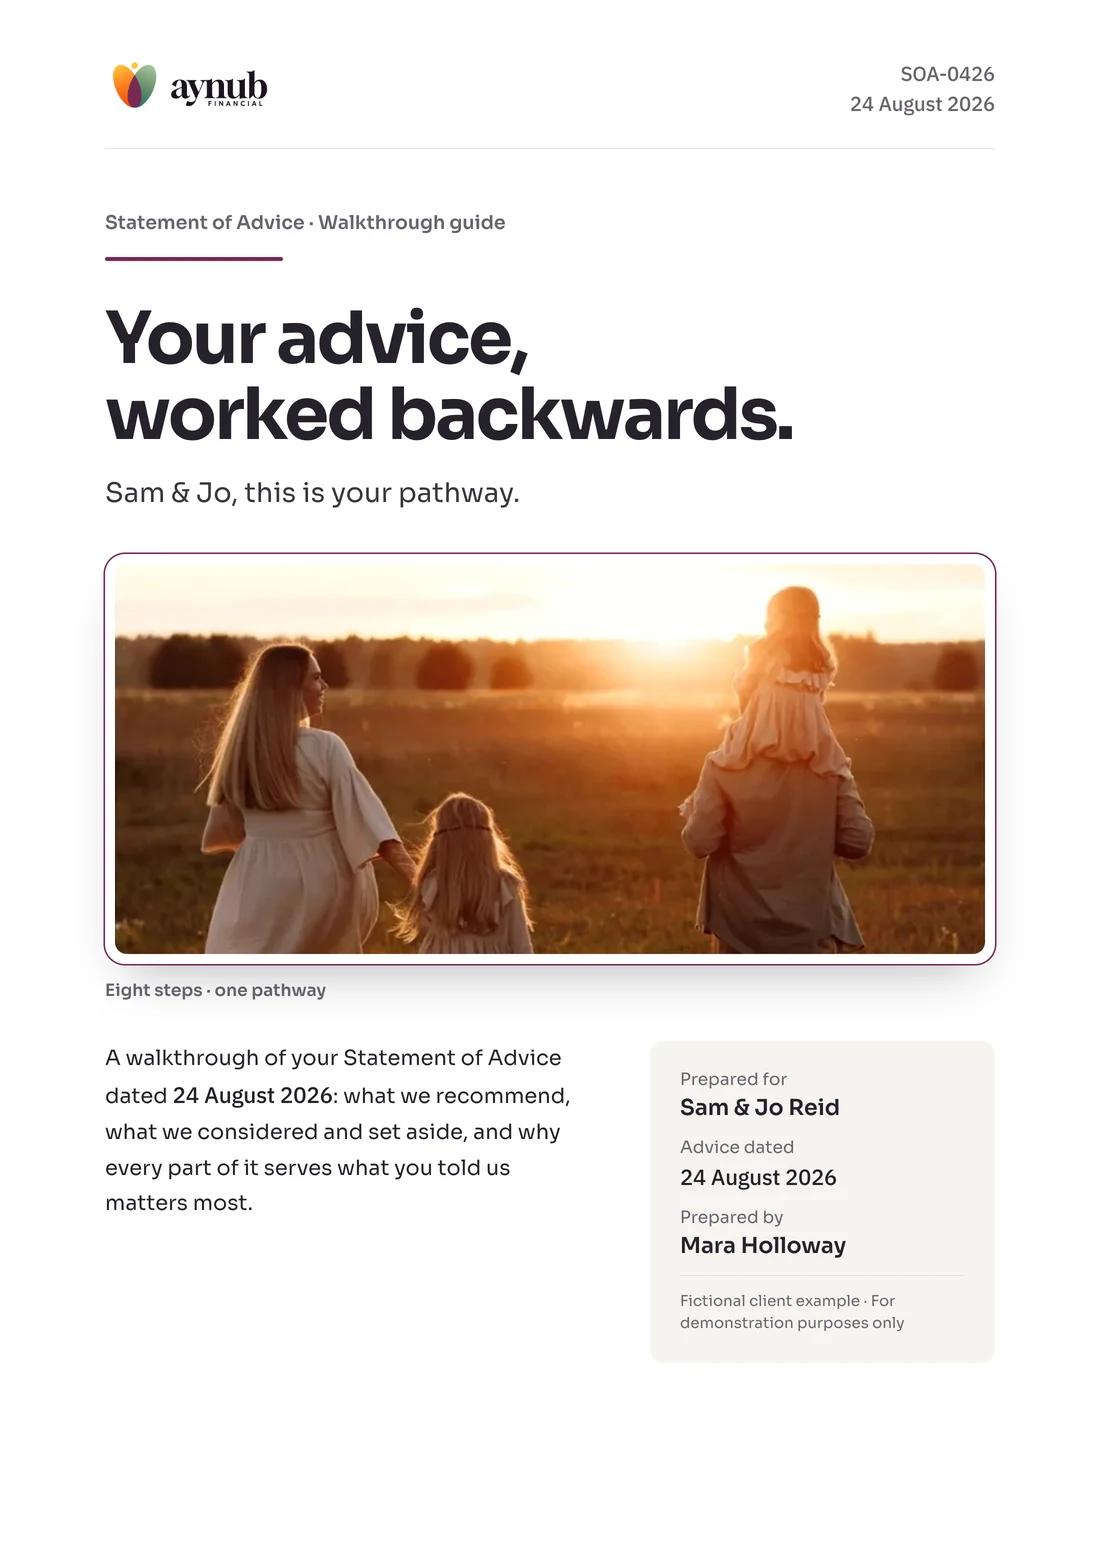
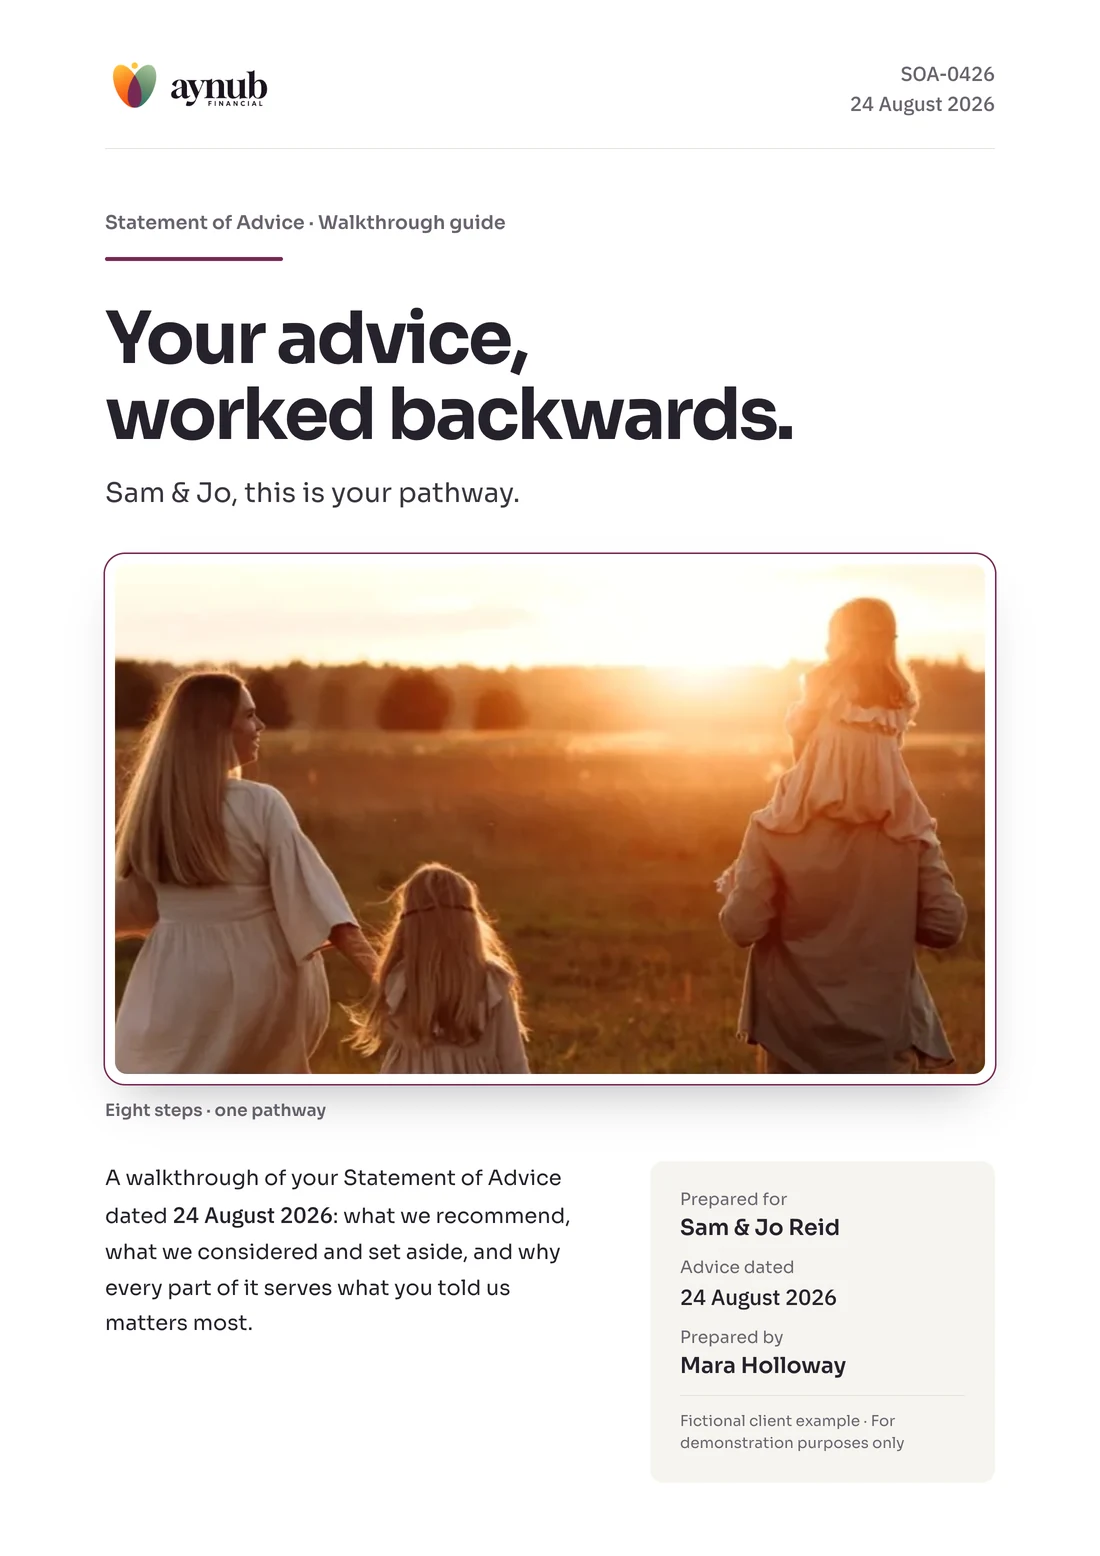
SOA generator: Aynub look for the drafted SOA, cover and page 9 tweaks
- The SOA drafted in the live screen (Advice Engine and SOA generator
  pages) now uses the Aynub template: logo, Sora, IBM Plex figures, plum
- SOA page 1: longer photo, bottom block sits lower on the page
- SOA page 9: section 03 headline breaks after "Retiring at 52:"

Changed region(s): [[0.0927, 0.3702, 0.8964, 0.9563]]

diff --git a/css/dana-ae.css b/css/dana-ae.css
@@ -1,3 +1,4 @@
+@import url("https://fonts.googleapis.com/css2?family=Sora:wght@400;500;600;700&family=IBM+Plex+Sans:wght@500;600&display=swap");
 /* Advice Engine overview, Dana 19 Nov 2026. Goes with js/dana-ae.js; reuses the app frame, rows and pills from css/dana-rp.css. */
 .sx .ae-hidden{display:none!important}
 .sx .ae-scene{position:relative;text-align:left}
@@ -52,3 +53,22 @@
 .sx .ae-sec.now .ae-tick{background:none;-webkit-mask:none;mask:none;box-shadow:none;border:2.5px solid #CFE6E3;border-top-color:#11B8B1;animation:ae-spin .9s linear infinite}
 .sx .ae-status b{color:#0A7D79}
 .sx .ae-ph em{color:#7EDAD6}
+
+/* The SOA being drafted in the live screen, in the Aynub template (Dana, 19 Nov 2026). Matches assets/aynub/src/aynub.css. Used on advice-engine.html and soa-generator.html. */
+.sx .ae-aynub .ae-page{font-family:"Sora",sans-serif;padding:0 0 4px;border-radius:6px;box-shadow:0 0 0 1px rgba(38,34,44,.08),0 18px 36px -18px rgba(38,34,44,.28)}
+.sx .ae-aynub .ae-stack > i{border-radius:6px}
+.sx .ae-aynub .ae-ph{margin:0 22px;padding:16px 0 12px;background:none;border-bottom:1px solid #E6E2DB;color:#6A6470}
+.sx .ae-aynub .ae-ph img{height:22px;width:auto;display:block;box-shadow:none!important;border-radius:0!important;border:0!important}
+.sx .ae-aynub .ae-ph em{font:500 11.5px/1 "Sora",sans-serif;letter-spacing:0;text-transform:none;color:#6A6470}
+.sx .ae-aynub .ae-pt{padding:20px 22px 16px;border:0}
+.sx .ae-aynub .ae-pt small{display:block;font:600 11.5px/1 "Sora",sans-serif;letter-spacing:0;text-transform:none;color:#6A6470}
+.sx .ae-aynub .ae-pt small::after{content:"";display:block;width:48px;height:3px;margin-top:10px;border-radius:2px;background:#772A53}
+.sx .ae-aynub .ae-pt b{margin:12px 0 10px;font-family:"Sora",sans-serif;font-size:21px;line-height:1.15;font-weight:700;letter-spacing:-.03em;color:#26222C}
+.sx .ae-aynub .ae-pt span{font-size:12px;line-height:1.55;color:#3B3640}
+.sx .ae-aynub .ae-toc{padding:4px 22px 6px;gap:0}
+.sx .ae-aynub .ae-toc span{gap:10px;padding:7px 0;border-top:1px solid #EFECE6;font-size:12.5px;color:#26222C}
+.sx .ae-aynub .ae-toc em{width:auto;height:auto;background:none;border-radius:0;font:600 12.5px/1 "IBM Plex Sans",sans-serif;font-variant-numeric:tabular-nums;color:#772A53;min-width:12px}
+.sx .ae-aynub .ae-toc i{border-bottom-color:#E6E2DB}
+.sx .ae-aynub .ae-toc strong{font-family:"IBM Plex Sans",sans-serif;font-weight:600;color:#26222C}
+.sx .ae-aynub .ae-pf{display:flex;justify-content:space-between;margin:6px 22px 0;padding:10px 0 12px;border-top:1px solid #E6E2DB;font-size:10.5px;color:#6A6470}
+.sx .ae-aynub .ae-pf b{font:600 10.5px/1 "IBM Plex Sans",sans-serif;color:#26222C}

diff --git a/soa-generator.html b/soa-generator.html
@@ -24,8 +24,8 @@
 <link rel="stylesheet" href="css/dana-journey.css?v=7">
 <link rel="stylesheet" href="css/dana-feature.css?v=22">
 <link rel="stylesheet" href="css/dana-rp.css?v=4">
-<link rel="stylesheet" href="css/dana-ae.css?v=3">
-<link rel="stylesheet" href="css/dana-soa.css?v=1">
+<link rel="stylesheet" href="css/dana-ae.css?v=4">
+<link rel="stylesheet" href="css/dana-soa.css?v=4">
 <script>document.documentElement.classList.add('js')</script>
 <script type="application/ld+json">{"@context":"https://schema.org","@graph":[{"@type":"WebPage","@id":"https://bunya.ai/soa-generator/#webpage","url":"https://bunya.ai/soa-generator/","name":"SOA generator: The SOA, drafted in your template.","description":"The draft SOA in your template, with every recommendation linked to its reasons."},{"@type":"BreadcrumbList","itemListElement":[{"@type":"ListItem","position":1,"name":"Home","item":"https://bunya.ai/"},{"@type":"ListItem","position":2,"name":"Advice Engine","item":"https://bunya.ai/advice-engine/"},{"@type":"ListItem","position":3,"name":"SOA generator","item":"https://bunya.ai/soa-generator/"}]},{"@type":"FAQPage","mainEntity":[{"@type":"Question","name":"Does Bunya write the SOA?","acceptedAnswer":{"@type":"Answer","text":"Yes. Bunya drafts the Statement of Advice in your template, and your adviser checks and approves it before it goes to the client. If your firm is self-licensed, you can start straight away. If you’re with a licensee, we’ll ask them to approve it first."}},{"@type":"Question","name":"Do our paraplanners still have a role?","acceptedAnswer":{"@type":"Answer","text":"Yes. The draft can go to your paraplanner to refine, or straight to the adviser to check. Your firm decides the handover."}},{"@type":"Question","name":"What does it need?","acceptedAnswer":{"@type":"Answer","text":"The fact find and Strategy and modelling, so both are added with it."}},{"@type":"Question","name":"Is it live?","acceptedAnswer":{"@type":"Answer","text":"It’s in pilot with early firms."}}]}]}</script>
 </head>
@@ -89,8 +89,8 @@
 <script src="js/nav3.js?v=20261117b"></script>
 <script src="js/footer.js?v=20261112a"></script>
 <script src="js/dana-feature.js?v=22"></script>
-<script src="js/dana-ae.js?v=3"></script>
-<script src="js/dana-soa.js?v=2"></script>
+<script src="js/dana-ae.js?v=4"></script>
+<script src="js/dana-soa.js?v=5"></script>
 <script src="js/dana-ux.js?v=8"></script>
 <script src="js/dana-journey.js?v=4"></script>
 <script src="js/reader.js?v=20261111a"></script>

diff --git a/advice-engine.html b/advice-engine.html
@@ -23,7 +23,7 @@
 <link rel="stylesheet" href="css/dana-journey.css?v=7">
 <link rel="stylesheet" href="css/dana-feature.css?v=22">
 <link rel="stylesheet" href="css/dana-rp.css?v=4">
-<link rel="stylesheet" href="css/dana-ae.css?v=3">
+<link rel="stylesheet" href="css/dana-ae.css?v=4">
 <script>document.documentElement.classList.add('js')</script>
 <script type="application/ld+json">{"@context":"https://schema.org","@graph":[{"@type":"WebPage","@id":"https://bunya.ai/advice-engine/#webpage","url":"https://bunya.ai/advice-engine/","name":"Advice Engine: Every SOA, drafted.","description":"Fact find, insurance needs, modelling and every SOA drafted in your template, on top of everything in Command Centre."},{"@type":"BreadcrumbList","itemListElement":[{"@type":"ListItem","position":1,"name":"Home","item":"https://bunya.ai/"},{"@type":"ListItem","position":2,"name":"Command Centre","item":"https://bunya.ai/command-centre/"},{"@type":"ListItem","position":3,"name":"Advice Engine","item":"https://bunya.ai/advice-engine/"}]},{"@type":"FAQPage","mainEntity":[{"@type":"Question","name":"Does Bunya write the SOA?","acceptedAnswer":{"@type":"Answer","text":"Yes. Bunya drafts the Statement of Advice in your template, and your adviser checks and approves it before it goes to the client. If your firm is self-licensed, you can start straight away. If you’re with a licensee, we’ll ask them to approve it first."}},{"@type":"Question","name":"Do our paraplanners still have a role?","acceptedAnswer":{"@type":"Answer","text":"Yes. The draft can go to your paraplanner to refine, or straight to the adviser to check. Your firm decides the handover."}},{"@type":"Question","name":"What if we only write a few SOAs?","acceptedAnswer":{"@type":"Answer","text":"Choose Command Centre instead, and pay $153 for each SOA we draft for you. You can compare both models when you build yours."}},{"@type":"Question","name":"Is all of it live?","acceptedAnswer":{"@type":"Answer","text":"The fact find, portfolio, insurance needs, modelling and comparisons are. The SOA generator and File Audit are in pilot with early firms."}}]}]}</script>
 </head>
@@ -88,7 +88,7 @@
 <script src="js/nav3.js?v=20261117b"></script>
 <script src="js/footer.js?v=20261112a"></script>
 <script src="js/dana-feature.js?v=22"></script>
-<script src="js/dana-ae.js?v=3"></script>
+<script src="js/dana-ae.js?v=4"></script>
 <script src="js/dana-ux.js?v=8"></script>
 <script src="js/dana-journey.js?v=4"></script>
 </body>

diff --git a/assets/aynub/src/soa.html b/assets/aynub/src/soa.html
@@ -15,7 +15,7 @@
 .c1 .kick::after{content:"";display:block;width:178px;height:4px;margin-top:22px;border-radius:2px;background:var(--plum)}
 .c1 h1{margin-top:40px;font-size:72px;line-height:1.06;font-weight:700;letter-spacing:-.035em;color:var(--ink)}
 .c1 .to{margin-top:22px;font-size:27px;color:var(--text)}
-.c1 .photo{margin-top:44px;height:410px}
+.c1 .photo{margin-top:44px;height:530px}
 .c1 .cap{margin-top:16px;font-size:17px;font-weight:600;color:var(--grey)}
 .c1 .low{display:grid;grid-template-columns:1fr 345px;gap:56px;margin-top:40px}
 .c1 .low p{font-size:21px;line-height:1.7;color:var(--ink)}
@@ -258,7 +258,7 @@
     <div class="box s"><div class="bv">$100k <small>a year</small></div><p><b>General living costs</b> from day one, even though you only disclosed <span class="n">$33,600</span>, so the plan is stress-tested rather than flattered.</p></div>
   </div>
   <div class="note2"><p>This is the baseline in every scenario, not an optimistic case with the family costs bolted on afterwards. When you compare the numbers, you are comparing like with like: each one already absorbs the reduced income and the childcare.</p></div>
-  <div class="sh" style="padding-top:44px"><span class="big">03</span><div><span class="k">The Range View decision, continued</span><h2>Retiring at 52: your complementary scenario.</h2></div></div>
+  <div class="sh" style="padding-top:44px"><span class="big">03</span><div><span class="k">The Range View decision, continued</span><h2>Retiring at 52:<br>your complementary scenario.</h2></div></div>
   <div class="rule"></div>
   <div class="box" style="margin-top:26px"><ul class="dots">
     <li><b>We have modelled retirement at <span class="n">52</span> alongside the recommended strategy, not instead of it.</b> Read them together.</li>

diff --git a/js/dana-ae.js b/js/dana-ae.js
@@ -86,3 +86,19 @@
   v.addEventListener('play', function () { cancelAnimationFrame(raf); raf = requestAnimationFrame(frame); });
   v.addEventListener('pause', function () { cancelAnimationFrame(raf); });
 })();
+
+/* The SOA being drafted in the live screen, in Aynub Financial's template (Dana, 19 Nov 2026): the same look as the
+   Aynub SOA below it (Sora, IBM Plex figures, plum). The app around it stays Bunya. Styling: css/dana-ae.css. Used on advice-engine.html and soa-generator.html. */
+(function () {
+  'use strict';
+  var scene = document.querySelector('.ae-scene');
+  if (!scene) return;
+  scene.classList.add('ae-aynub');
+  var ph = scene.querySelector('.ae-ph');
+  if (ph) ph.innerHTML = '<img src="assets/aynub/aynub-lockup-financial-on-light.png" alt=""><em>Draft 1</em>';
+  var pt = scene.querySelector('.ae-pt small');
+  if (pt) pt.textContent = 'Statement of Advice';
+  var pf = scene.querySelector('.ae-pf');
+  if (pf) pf.innerHTML = '<span>Statement of Advice · Priya &amp; Arjun Shah</span><b>1</b>';
+  scene.setAttribute('aria-label', scene.getAttribute('aria-label').replace('in the firm’s template', 'in the template of Aynub Financial, a fictional practice'));
+})();

diff --git a/js/dana-soa.js b/js/dana-soa.js
@@ -7,7 +7,7 @@
   if (!docs) return;
   var reduce = window.matchMedia && matchMedia('(prefers-reduced-motion: reduce)').matches;
   var N = 21, cur = 1, auto = !reduce, tv = null, vis = false;
-  function src(n) { return 'assets/aynub/docs/soa/' + n + '.webp?v=2'; }
+  function src(n) { return 'assets/aynub/docs/soa/' + n + '.webp?v=3'; }
   var view = document.createElement('div');
   view.className = 'rp-view soa-view';
   var thumbs = ''; for (var i = 1; i <= N; i++) thumbs += '<button type="button" class="rp-th soa-th" data-n="' + i + '" aria-label="Show page ' + i + ' of ' + N + '"><img src="' + src(i) + '" alt="" loading="lazy"><span>' + i + '</span></button>';
@@ -43,3 +43,4 @@
   go(1, 'load');
   if ('IntersectionObserver' in window) new IntersectionObserver(function (es) { vis = es[0].isIntersecting; if (vis) loop(); else clearTimeout(tv); }, { threshold: .3 }).observe(view);
 })();
+
